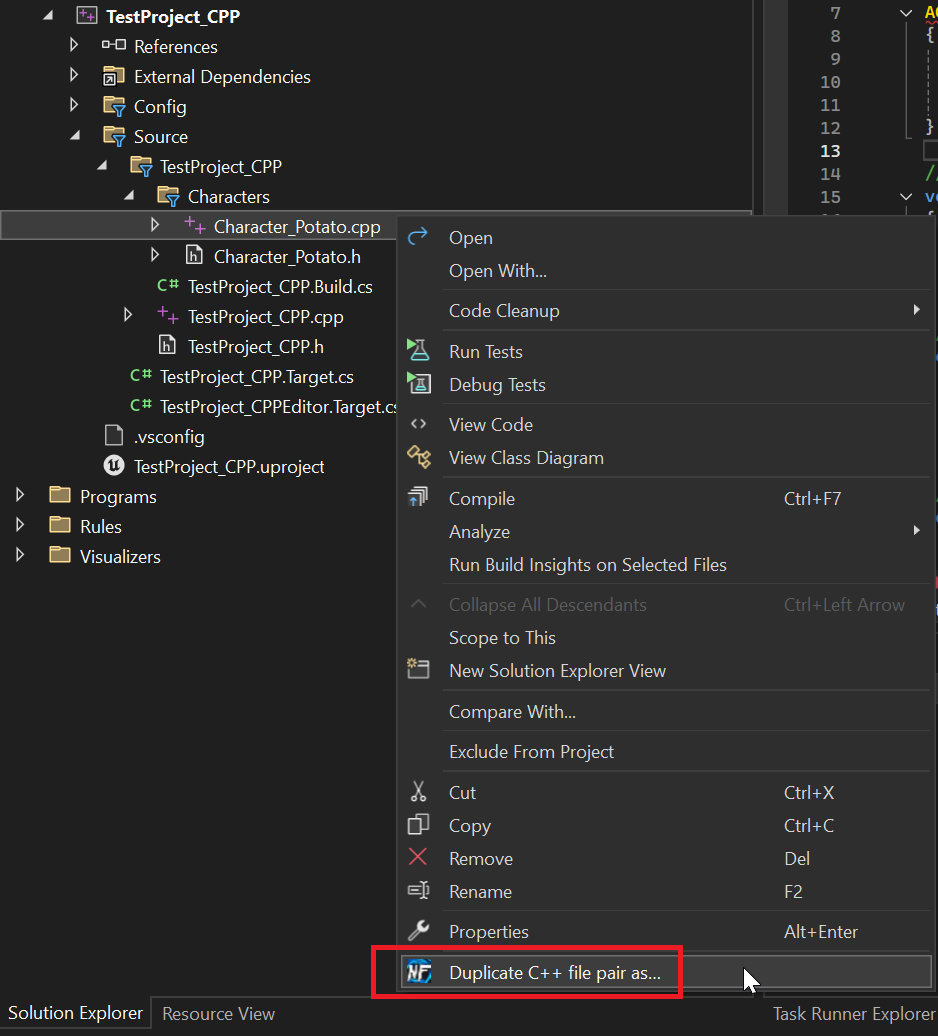
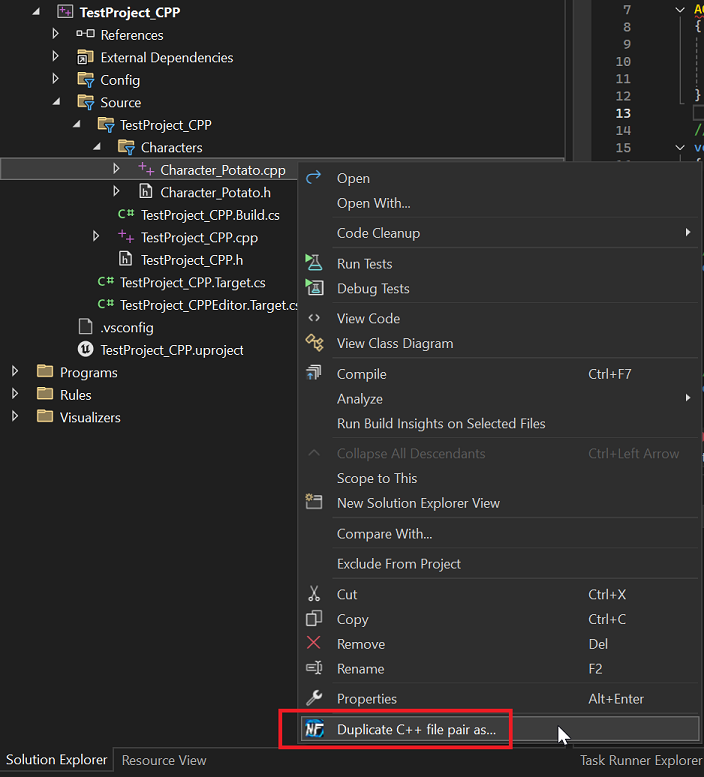
Minor text/image size adjustment

diff --git a/README.md b/README.md
@@ -1,6 +1,6 @@
 # NF_VSTools
 
-Small, focused Visual Studio tools for C++ / Unreal Engine workflows by Neo Future Labs.
+Small Visual Studio tools extension for C++ / Unreal Engine workflows by Neo Future Labs.
 
 ## ✨ Features
 
